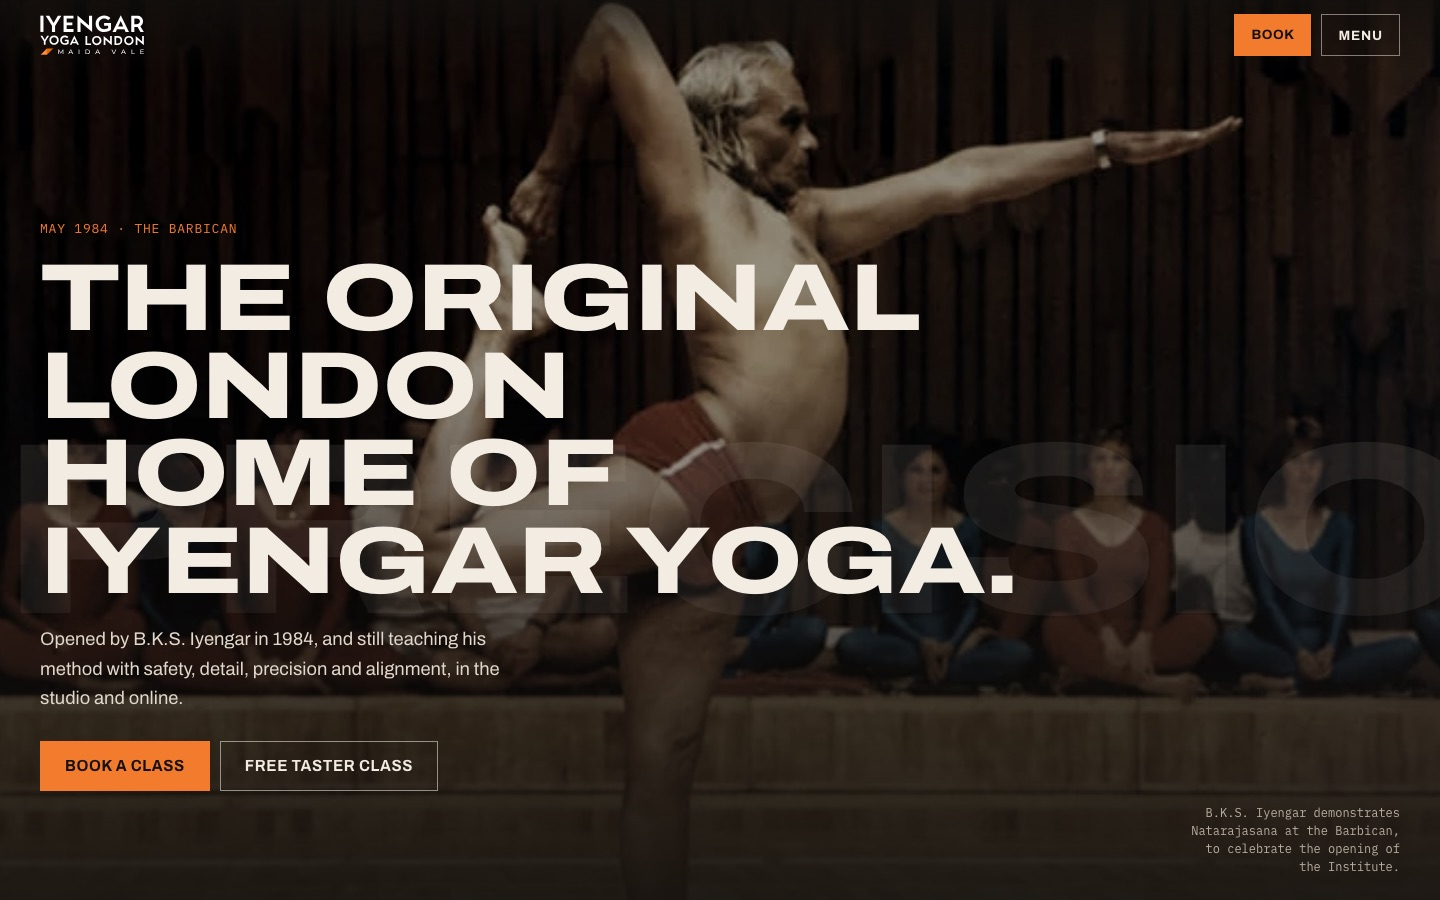
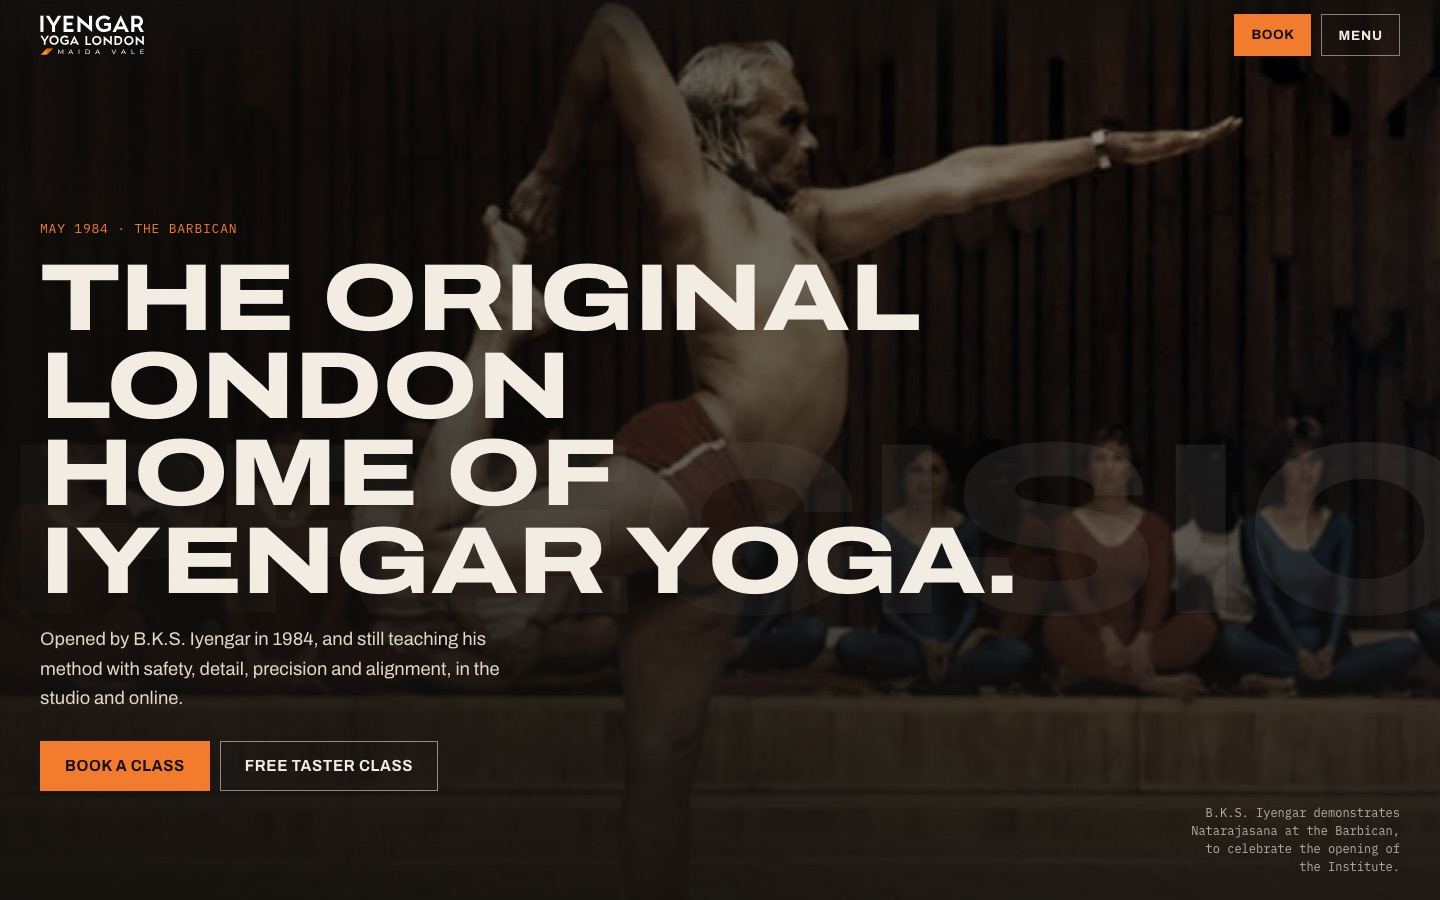
Fix contrast issues and touch up details
- Free taster tag text was hidden by a broader timetable rule in A
- Livestream list class clashed with the livestream tag in C
- Hero in C gains a scrim behind the copy and a shorter crossfade
- Teacher names in C move below the portraits
- Decorative separators hidden from assistive tech

diff --git a/c/style.css b/c/style.css
@@ -71,7 +71,7 @@ p { margin: 0; text-wrap: pretty; }
 .plane-now { inset: 0; opacity: 0; }
 .plane-now img { object-position: 50% 50%; filter: brightness(.5) saturate(.9); }
 .plane-word { inset: auto 0 30% 0; text-align: center; font-stretch: 125%; font-weight: 800; text-transform: uppercase; font-size: clamp(4rem, 17vw, 17rem); line-height: .8; letter-spacing: -.02em; color: rgba(242, 236, 227, .1); white-space: nowrap; pointer-events: none; }
-.hero-pin::after { content: ""; position: absolute; inset: 40% 0 0; background: linear-gradient(rgba(19, 16, 13, 0), rgba(19, 16, 13, .9)); pointer-events: none; }
+.hero-pin::after { content: ""; position: absolute; inset: 0; background: linear-gradient(rgba(19, 16, 13, 0) 40%, rgba(19, 16, 13, .9)), linear-gradient(90deg, rgba(19, 16, 13, .72), rgba(19, 16, 13, .3) 55%, rgba(19, 16, 13, 0) 80%); pointer-events: none; }
 .hero-copy { position: relative; z-index: 2; padding: 0 var(--gut) clamp(72px, 12vh, 120px); max-width: 1100px; }
 .hero-year { font-family: var(--mono); font-size: 13px; letter-spacing: .06em; text-transform: uppercase; color: var(--accent); display: grid; }
 .hero-year span { grid-area: 1 / 1; }
@@ -82,8 +82,8 @@ p { margin: 0; text-wrap: pretty; }
 .hero-cap { position: absolute; z-index: 2; right: var(--gut); bottom: 24px; max-width: 30ch; font-family: var(--mono); font-size: 12px; line-height: 1.5; color: var(--soft); text-align: right; display: none; }
 .hero-cap span { grid-area: 1 / 1; }
 @media (min-width: 900px) { .hero-cap { display: grid; } }
-.motion .plane-then { transform: translate3d(0, calc(var(--p, 0) * -6%), 0) scale(calc(1 + var(--p, 0) * .08)); opacity: calc(1 - var(--p, 0) * 1.6); }
-.motion .plane-now { opacity: calc(var(--p, 0) * 1.8 - .4); transform: scale(calc(1.12 - var(--p, 0) * .12)); }
+.motion .plane-then { transform: translate3d(0, calc(var(--p, 0) * -6%), 0) scale(calc(1 + var(--p, 0) * .08)); opacity: calc(1.4 - var(--p, 0) * 2.8); }
+.motion .plane-now { opacity: calc(var(--p, 0) * 2.8 - 1); transform: scale(calc(1.12 - var(--p, 0) * .12)); }
 .motion .plane-word { transform: translate3d(calc(var(--p, 0) * -18%), 0, 0); }
 .motion .y-then, .motion .c-then { opacity: calc(1 - var(--p, 0) * 2.4); }
 .motion .y-now, .motion .c-now { opacity: calc(var(--p, 0) * 2.4 - 1); }
@@ -199,12 +199,12 @@ p { margin: 0; text-wrap: pretty; }
 .specs div { padding: 14px 0; border-bottom: 1px solid var(--line); }
 .specs dt { font: 500 12px var(--mono); text-transform: uppercase; letter-spacing: .05em; color: var(--live); }
 .specs dd { margin: 4px 0 0; font-weight: 600; }
-.live { list-style: none; margin: 0; padding: 0; border-top: 1px solid var(--ink); }
-.live li { display: grid; grid-template-columns: 92px minmax(0, 1fr) auto; gap: 14px; align-items: center; padding: 14px 0; border-bottom: 1px solid var(--line); }
-.live time { font: 500 13px/1.4 var(--mono); color: var(--live); text-transform: uppercase; }
-.live b { display: block; font-weight: 700; }
-.live span { color: var(--soft); font-size: 14px; }
-.live .btn { min-height: 44px; padding: 10px 14px; font-size: 12.5px; }
+.livelist { list-style: none; margin: 0; padding: 0; border-top: 1px solid var(--ink); }
+.livelist li { display: grid; grid-template-columns: 92px minmax(0, 1fr) auto; gap: 14px; align-items: center; padding: 14px 0; border-bottom: 1px solid var(--line); }
+.livelist time { font: 500 13px/1.4 var(--mono); color: var(--live); text-transform: uppercase; }
+.livelist b { display: block; font-weight: 700; }
+.livelist span { color: var(--soft); font-size: 14px; }
+.livelist .btn { min-height: 44px; padding: 10px 14px; font-size: 12.5px; }
 .motion [data-reveal] { opacity: 0; transform: translateY(28px); transition: opacity .9s cubic-bezier(.2, .7, .2, 1), transform .9s cubic-bezier(.2, .7, .2, 1); }
 .motion [data-reveal].in { opacity: 1; transform: none; }
 
@@ -267,12 +267,12 @@ p { margin: 0; text-wrap: pretty; }
 .links { display: flex; flex-wrap: wrap; gap: 8px 22px; font: 600 13px var(--mono); text-transform: uppercase; letter-spacing: .05em; }
 .links a { color: var(--accent); text-decoration: none; }
 .links a:hover { text-decoration: underline; }
-.grid-faces { list-style: none; margin: 0; padding: 0; display: grid; grid-template-columns: repeat(3, minmax(0, 1fr)); gap: 4px; }
+.grid-faces { list-style: none; margin: 0; padding: 0; display: grid; grid-template-columns: repeat(3, minmax(0, 1fr)); gap: 6px 6px; }
 @media (min-width: 560px) { .grid-faces { grid-template-columns: repeat(4, minmax(0, 1fr)); } }
 .grid-faces li { position: relative; }
 .grid-faces img { width: 100%; aspect-ratio: 1; object-fit: cover; filter: grayscale(1) brightness(.85); transition: filter .3s; }
 .grid-faces li:hover img { filter: grayscale(0) brightness(1); }
-.grid-faces span { position: absolute; left: 0; right: 0; bottom: 0; padding: 18px 8px 6px; font: 500 11.5px/1.3 var(--mono); background: linear-gradient(rgba(19, 16, 13, 0), rgba(19, 16, 13, .9)); }
+.grid-faces span { display: block; padding: 6px 2px 10px; font: 500 12px/1.3 var(--mono); color: var(--soft); }
 
 /* close */
 .close { padding-block: clamp(96px, 14vw, 180px); border-top: 1px solid var(--line); }

diff --git a/c/home.html b/c/home.html
@@ -48,7 +48,7 @@
       <div class="plane plane-now" aria-hidden="true"><img src="../assets/img/rope-wall-class.webp" alt="" width="1280" height="480"></div>
       <p class="plane plane-word" aria-hidden="true">Precision</p>
       <div class="hero-copy">
-        <p class="hero-year"><span class="y-then">May 1984 · The Barbican</span><span class="y-now">Today · Maida Vale</span></p>
+        <p class="hero-year"><span class="y-then">May 1984 · The Barbican</span><span class="y-now" aria-hidden="true">Today · Maida Vale</span></p>
         <h1>The original London home of Iyengar yoga.</h1>
         <p class="hero-lede">Opened by B.K.S. Iyengar in 1984, and still teaching his method with safety, detail, precision and alignment, in the studio and online.</p>
         <div class="hero-ctas">
@@ -56,7 +56,7 @@
           <button class="btn btn-ghost" type="button" data-book="t2">Free taster class</button>
         </div>
       </div>
-      <p class="hero-cap"><span class="c-then">B.K.S. Iyengar demonstrates Natarajasana at the Barbican, to celebrate the opening of the Institute.</span><span class="c-now">Students at the rope wall, Randolph Avenue.</span></p>
+      <p class="hero-cap"><span class="c-then">B.K.S. Iyengar demonstrates Natarajasana at the Barbican, to celebrate the opening of the Institute.</span><span class="c-now" aria-hidden="true">Students at the rope wall, Randolph Avenue.</span></p>
     </div>
   </section>
 
@@ -135,7 +135,7 @@
           <div><dt>From</dt><dd>£8.50 for members</dd></div>
         </dl>
       </div>
-      <ol class="live" id="live" data-reveal></ol>
+      <ol class="livelist" id="live" data-reveal></ol>
     </div>
   </section>
 

diff --git a/a/app.js b/a/app.js
@@ -7,7 +7,7 @@
   /* Today, in one running line under the title page */
   const nowList = sessions.filter((s) => s.date === today);
   const next = nowList.find((s) => s.start >= '18:00' && s.kind === 'class') || nowList[nowList.length - 1];
-  $('#today-line').innerHTML = `<b>Today, ${fmt.long(today)}</b><span class="sep">·</span><span>${nowList.length} classes, from ${fmt.time(nowList[0].start)} to ${fmt.time(nowList[nowList.length - 1].start)}</span><span class="sep">·</span><span>Tonight: ${esc(next.title)} with ${esc(next.teacher)}, ${fmt.time(next.start)}</span><button type="button" class="link-btn" data-book="${next.id}">Book this class</button>`;
+  $('#today-line').innerHTML = `<b>Today, ${fmt.long(today)}</b><span class="sep" aria-hidden="true">·</span><span>${nowList.length} classes, from ${fmt.time(nowList[0].start)} to ${fmt.time(nowList[nowList.length - 1].start)}</span><span class="sep" aria-hidden="true">·</span><span>Tonight: ${esc(next.title)} with ${esc(next.teacher)}, ${fmt.time(next.start)}</span><button type="button" class="link-btn" data-book="${next.id}">Book this class</button>`;
 
   /* Timetable */
   const state = { day: today, where: 'all', level: 'all' };

diff --git a/a/style.css b/a/style.css
@@ -161,7 +161,7 @@ figure { margin: 0; position: relative; }
 .tt-time { font-family: var(--serif); font-size: 1.7rem; line-height: 1; font-variant-numeric: tabular-nums; }
 .tt-time small { display: block; margin-top: 6px; font: 13px var(--sans); color: var(--ink-soft); }
 .tt-what b { display: block; font-weight: 600; font-size: 17px; }
-.tt-what span { font-size: 15px; color: var(--ink-soft); }
+.tt-what > span { font-size: 15px; color: var(--ink-soft); }
 .tt-tags { display: flex; flex-wrap: wrap; gap: 6px; margin-top: 8px; }
 .tag { display: inline-flex; align-items: center; gap: 6px; font-size: 12.5px; font-weight: 500; padding: 3px 9px; border-radius: 999px; border: 1px solid var(--rule); color: var(--ink-soft); }
 .tag-online { border-color: var(--slate); color: var(--slate); }

diff --git a/b/home.html b/b/home.html
@@ -91,7 +91,7 @@
           </div>
         </div>
         <ol class="tt-list" role="tabpanel" id="tt-panel" tabindex="0"></ol>
-        <p class="tt-more"><a href="#">See the full timetable</a><span>·</span><a href="#">Class levels explained</a></p>
+        <p class="tt-more"><a href="#">See the full timetable</a><span aria-hidden="true">·</span><a href="#">Class levels explained</a></p>
       </div>
     </div>
   </section>
